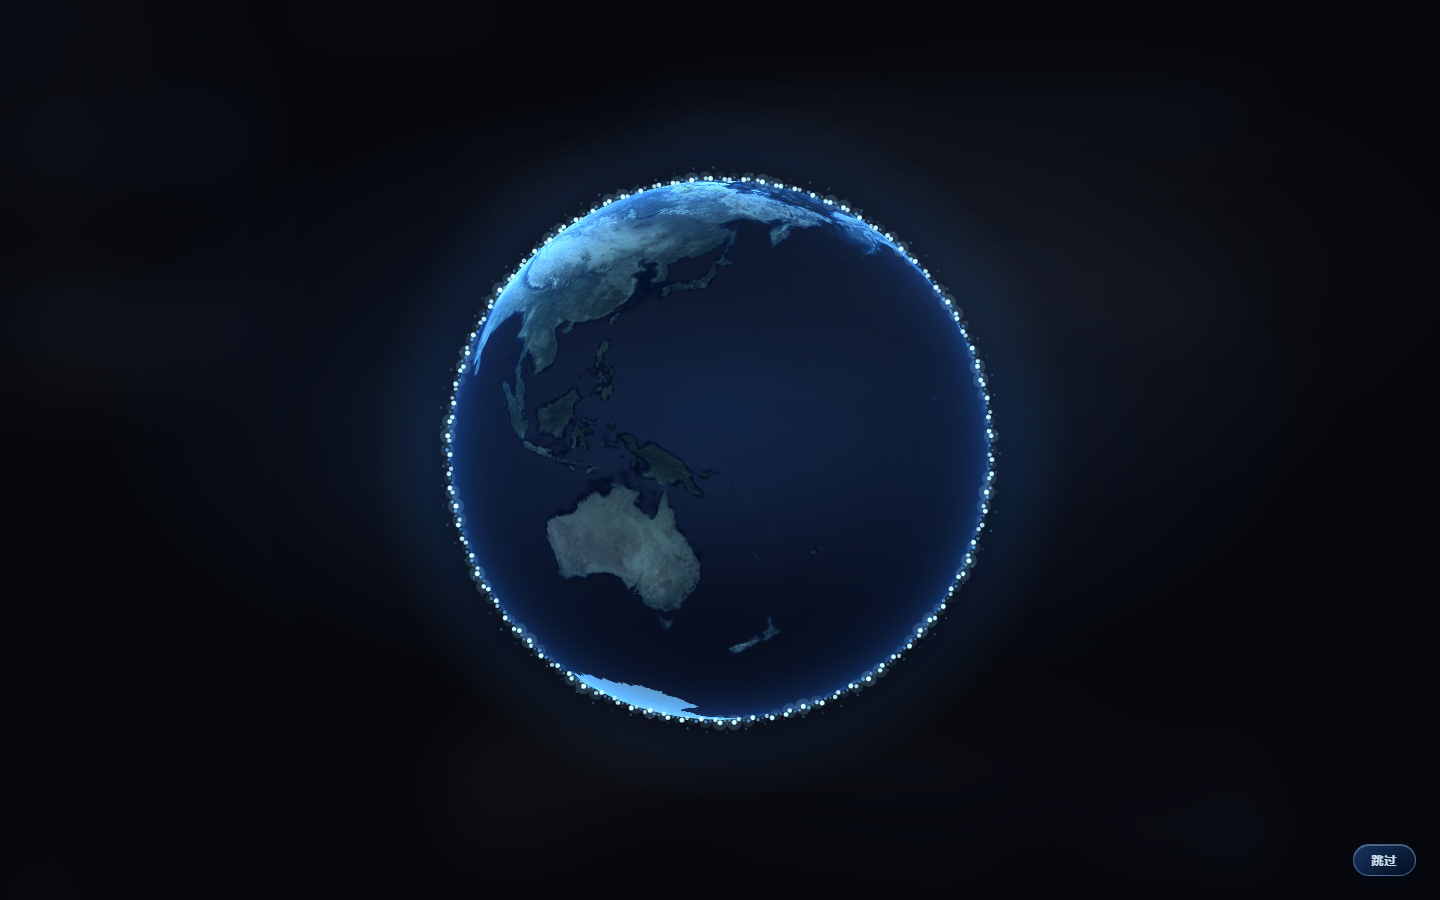
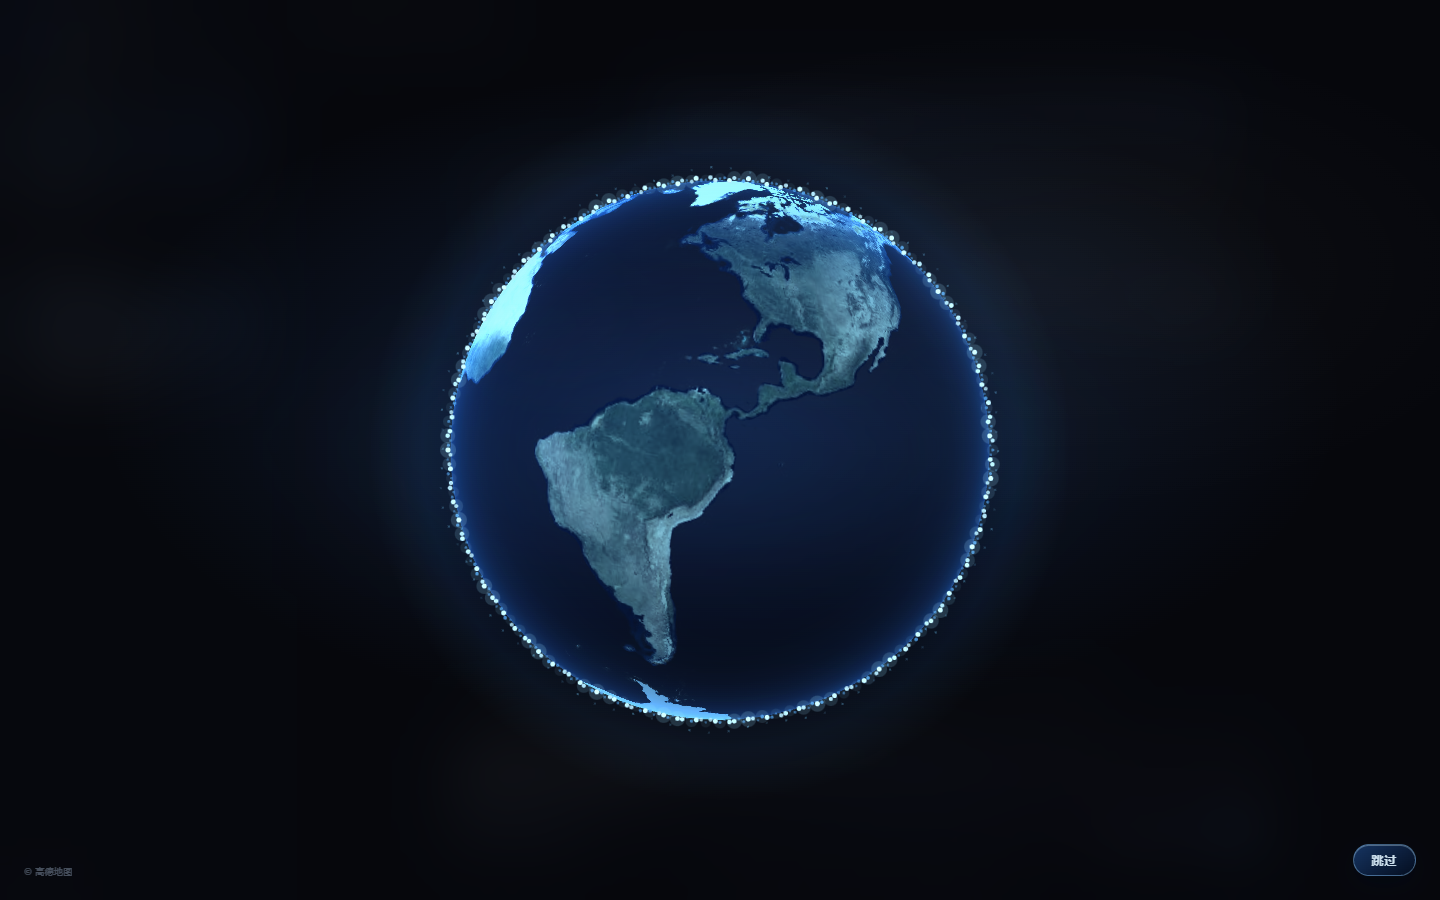
fix: render front hemisphere so IP spot is not antipodal

diff --git a/lib/client.js b/lib/client.js
@@ -1,5 +1,5 @@
 /*!
- * dsh-apple-liquid-glass v0.6.4
+ * dsh-apple-liquid-glass v0.6.5
  * Apple-style liquid glass material for the DSH web client.
  * Generated by scripts/build.mjs — edit src/client.js and src/style.css.
  */
@@ -862,7 +862,7 @@ function dslgCreateGlobeRenderer(canvas) {
     "  vec3 p = uRot * aPos;",
     "  vNormal = uRot * aNormal;",
     "  vUv = aUv;",
-    "  gl_Position = vec4(p.x * uScaleX, p.y * uScaleY, p.z * 0.5 + 0.5, 1.0);",
+    "  gl_Position = vec4(p.x * uScaleX, p.y * uScaleY, 0.5 - p.z * 0.5, 1.0);",
     "}"
   ].join("\n");
   var fragmentSource = [

diff --git a/src/client.js b/src/client.js
@@ -851,7 +851,7 @@ function dslgCreateGlobeRenderer(canvas) {
     "  vec3 p = uRot * aPos;",
     "  vNormal = uRot * aNormal;",
     "  vUv = aUv;",
-    "  gl_Position = vec4(p.x * uScaleX, p.y * uScaleY, p.z * 0.5 + 0.5, 1.0);",
+    "  gl_Position = vec4(p.x * uScaleX, p.y * uScaleY, 0.5 - p.z * 0.5, 1.0);",
     "}"
   ].join("\n");
   var fragmentSource = [

diff --git a/README.zh.md b/README.zh.md
@@ -50,7 +50,7 @@ dsh plugin --profile web add 'github:tianyuec11-design/dsh-apple-liquid-glass'
 也可以直接安装固定版本：
 
 ```text
-https://github.com/tianyuec11-design/dsh-apple-liquid-glass/releases/download/v0.6.4/dsh-apple-liquid-glass-0.6.4.tgz
+https://github.com/tianyuec11-design/dsh-apple-liquid-glass/releases/download/v0.6.5/dsh-apple-liquid-glass-0.6.5.tgz
 ```
 
 > dshmarket 的 **主题** 标签页只列出目录中收录的主题；从 GitHub 安装的这个主题会出现在 **已安装插件** 里，这是正常的。它仍然是一个完整的 bundle 主题插件，可以正常启用/停用。
@@ -83,7 +83,7 @@ node scripts/build.mjs
 npm pack
 ```
 
-会生成 `dsh-apple-liquid-glass-0.6.4.tgz`。在插件管理器的「安装第三方插件」里粘贴这个 `.tgz` 的绝对路径即可。
+会生成 `dsh-apple-liquid-glass-0.6.5.tgz`。在插件管理器的「安装第三方插件」里粘贴这个 `.tgz` 的绝对路径即可。
 
 ---
 
@@ -263,6 +263,7 @@ MIT。见 [LICENSE](LICENSE)。
 开屏字体 **Dancing Script** © The Dancing Script Project Authors，按 SIL Open Font License 1.1 分发；完整许可见 [assets/fonts/OFL.txt](assets/fonts/OFL.txt)。
 
 「Liquid Glass」在这里描述视觉材质；本项目与 Apple Inc. 无隶属或背书关系。
+
 
 
 

diff --git a/README.md b/README.md
@@ -50,7 +50,7 @@ Restart `dsh web` afterwards. `dsh plugin` needs pnpm on `PATH`; the Desktop app
 A pinned release is also available as:
 
 ```text
-https://github.com/tianyuec11-design/dsh-apple-liquid-glass/releases/download/v0.6.4/dsh-apple-liquid-glass-0.6.4.tgz
+https://github.com/tianyuec11-design/dsh-apple-liquid-glass/releases/download/v0.6.5/dsh-apple-liquid-glass-0.6.5.tgz
 ```
 
 > dshmarket's **Themes** tab only lists themes in its catalog. A GitHub-installed theme appears under **Installed plugins**; it is still a complete bundle theme and can be enabled or disabled normally.
@@ -79,7 +79,7 @@ node scripts/build.mjs
 npm pack
 ```
 
-Then install `dsh-apple-liquid-glass-0.6.4.tgz` through the plugin manager.
+Then install `dsh-apple-liquid-glass-0.6.5.tgz` through the plugin manager.
 
 ---
 
@@ -244,6 +244,7 @@ MIT. See [LICENSE](LICENSE).
 The opening font **Dancing Script** © The Dancing Script Project Authors, distributed under the SIL Open Font License 1.1; see [assets/fonts/OFL.txt](assets/fonts/OFL.txt).
 
 "Liquid Glass" describes the visual material. This project is not affiliated with or endorsed by Apple Inc.
+
 
 
 
